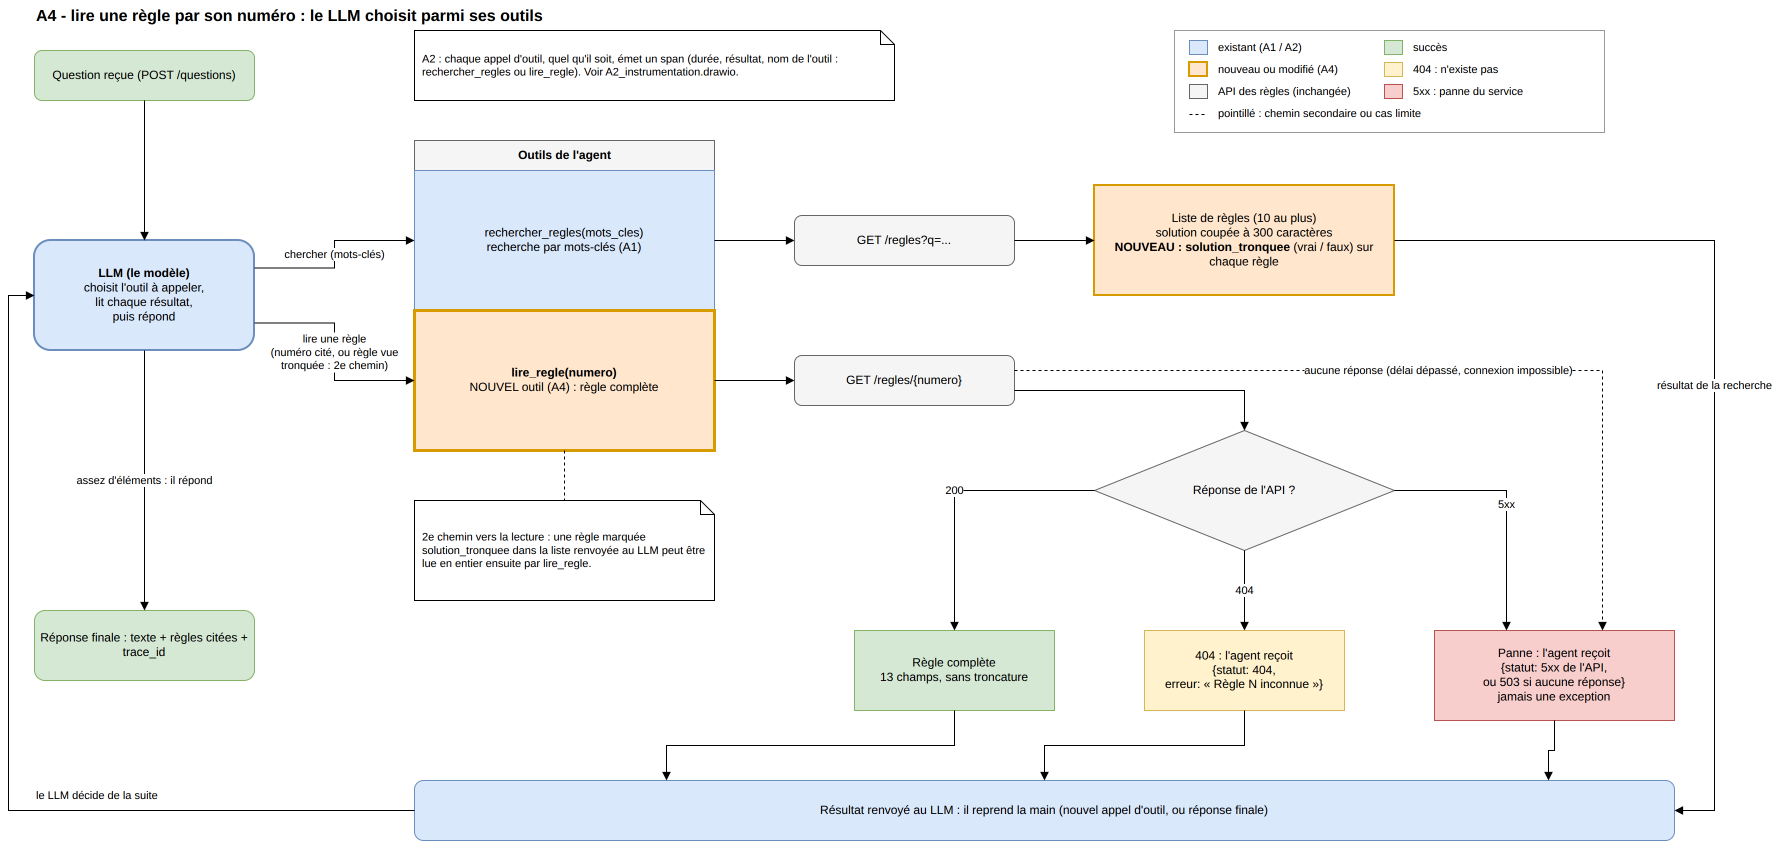
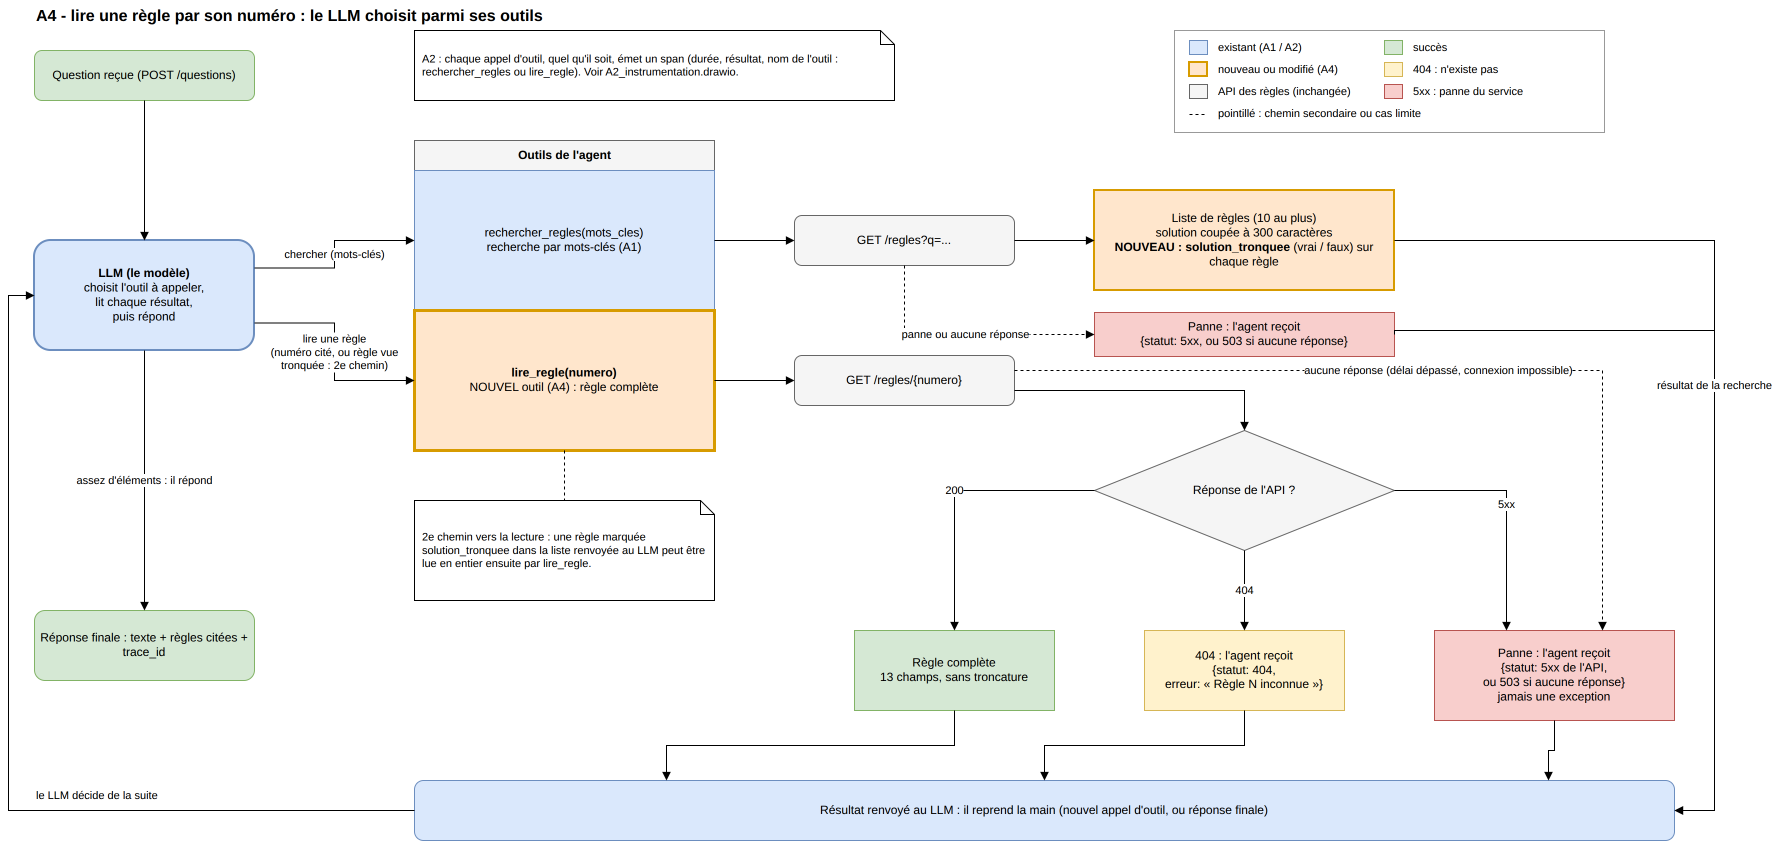
docs(a4): align search tool errors and add service_indisponible status
La recherche `rechercher_regles` adopte le même contrat de résilience que
`lire_regle` : plus d'exception vers l'agent, le statut d'erreur de l'API est
transmis (503 si aucune réponse).

Conséquence sur le contrat : une panne de l'API des règles ne provoque plus de
HTTP 503 sur POST /questions, et aurait été classée `aucune_regle_pertinente`
à tort. Décision de David : nouveau statut `service_indisponible` en HTTP 200.

- openapi.json : version 0.3.0, valeur additive dans StatutReponse, entrée A4
  dans x-historique
- fiche A4 : décision et scénarios (12 au total, dont deux pour la recherche
  et un au niveau de l'API)
- schéma : issue « panne » de la recherche ajoutée
- CHANGELOG à jour

Le code et son miroir schemas.py suivent, tests d'abord.

Changed region(s): [[0.4961, 0.3393, 0.8061, 0.4318], [0.6201, 0.2159, 0.7751, 0.2467]]

diff --git a/conception/3_autre_us/us2_question_libre/increments/A_agent_nu/A4_lecture_regle_par_numero.md b/conception/3_autre_us/us2_question_libre/increments/A_agent_nu/A4_lecture_regle_par_numero.md
@@ -29,6 +29,11 @@ deux outils.
 - **Le service ne répond pas** (délai dépassé, connexion impossible) : aucune
   réponse HTTP n'existe, l'outil renvoie de lui-même `{"statut": 503, ...}`
   (service indisponible).
+- **Même contrat pour `rechercher_regles`** (décision de David : « il faut
+  vraiment que notre produit soit résilient ») : plus d'exception, le statut
+  d'erreur de l'API est transmis à l'agent, 503 si aucune réponse. Cela
+  modifie l'outil d'A1 (le `raise_for_status()` disparaît), au même titre que
+  le marqueur `solution_tronquee`.
 - **Deux usages** : l'utilisateur cite un numéro, **ou** l'agent lui-même veut
   lire en entier une règle qu'une recherche lui a montrée tronquée (la
   recherche coupe la solution à 300 caractères). Le second usage est la vraie
@@ -39,6 +44,14 @@ deux outils.
   ressemble à une règle complète et l'agent n'a aucune raison de la lire en
   entier. C'est une petite modification de l'outil d'A1, imposée par A4.
   Le prompt système et la description des outils citent les deux outils.
+- **Une panne d'outil n'est pas « rien ne correspond »** : quand l'agent
+  a reçu un statut 5xx d'un outil et ne cite aucune règle, la réponse de
+  `POST /questions` porte le nouveau statut `service_indisponible`, en HTTP
+  200 (contrat `openapi.json`, version 0.3.0, ajout additif). Sans lui, la
+  panne serait classée `aucune_regle_pertinente`, ce qui est faux. Règle
+  retenue (à valider) : `service_indisponible` seulement si un outil a renvoyé
+  un 5xx **et** qu'aucune règle n'est citée ; si une nouvelle tentative a
+  réussi et que des règles sont citées, la réponse reste `repondu`.
 - Aucune modification de l'API des règles : la route existe et est en accès
   libre, sans jeton.
 
@@ -95,6 +108,26 @@ Fonctionnalité : Lecture d'une règle par son numéro
     Alors il renvoie à l'agent le statut 503
     Et l'agent n'affirme pas que la règle 116 n'existe pas
 
+  Scénario : La recherche remonte une panne comme un 5xx
+    Étant donné que l'API des règles répond par une erreur serveur 503
+    Quand l'agent lance une recherche par mots-clés
+    Alors l'outil de recherche renvoie à l'agent le statut 503 et le message
+      d'erreur
+    Et l'agent n'affirme pas qu'aucune règle ne correspond
+
+  Scénario : La recherche ne reçoit aucune réponse
+    Étant donné que l'API des règles ne répond pas dans le délai imparti
+    Quand l'agent lance une recherche par mots-clés
+    Alors l'outil de recherche renvoie à l'agent le statut 503
+    Et l'agent n'affirme pas qu'aucune règle ne correspond
+
+  Scénario : Une panne d'outil n'est pas présentée comme « rien ne correspond »
+    Étant donné que l'API des règles répond par une erreur serveur 503
+    Et qu'aucune règle n'a pu être citée
+    Quand l'utilisateur pose une question dans le sujet
+    Alors la réponse HTTP est un 200
+    Et son statut est `service_indisponible`, pas `aucune_regle_pertinente`
+
   Scénario : Une question sans numéro commence par une recherche par mots-clés
     Étant donné une question qui ne cite aucun numéro de règle
     Quand l'utilisateur demande « Comment traiter les images décoratives ? »
@@ -109,10 +142,11 @@ Fonctionnalité : Lecture d'une règle par son numéro
     Et elle contient la durée et le résultat (succès ou erreur)
 ```
 
-Les scénarios 3 à 7 sont déterministes (tests unitaires des outils, API
-simulée). Les scénarios 1, 2 et 8 dépendent du choix du modèle : ils se
-vérifient par un test d'intégration réel et alimentent la mesure de la carte.
-Le scénario 9 protège la trace d'A2 quand la boucle passe à deux outils.
+Les scénarios 3 à 10 sont déterministes (tests unitaires des outils et de la
+boucle, API simulée). Les scénarios 1, 2 et 11 dépendent du choix du modèle :
+ils se vérifient par un test d'intégration réel et alimentent la mesure de la
+carte. Le scénario 12 protège la trace d'A2 quand la boucle passe à deux
+outils.
 
 ## Schémas
 

diff --git a/CHANGELOG.md b/CHANGELOG.md
@@ -17,11 +17,22 @@ Format d'entrée, une ligne par réalisation :
   inconnue » remontée à l'agent comme résultat avec son code (`statut: 404`,
   même hors HTTP, comme vocabulaire commun), et les pannes comme un 5xx
   (statut de l'API transmis tel quel ; 503 quand le service ne répond pas),
-  plus aucune exception vers l'agent. Deux usages retenus : numéro cité par l'utilisateur, ou règle
+  plus aucune exception vers l'agent. **La recherche `rechercher_regles` est
+  alignée sur le même contrat** (décision de David : « il faut vraiment que
+  notre produit soit résilient ») : le `raise_for_status()` d'A1 disparaît,
+  le statut d'erreur de l'API est transmis à l'agent, 503 si aucune réponse.
+  Schéma mis à jour (case rouge de la recherche). **Conséquence sur le
+  contrat** : une panne de l'API des règles ne fait plus lever d'exception
+  dans l'agent, donc plus de HTTP 503 sur `POST /questions` ; elle aurait été
+  classée `aucune_regle_pertinente` à tort. Décision de David : nouveau statut
+  `service_indisponible` (HTTP 200), `openapi.json` passé en version 0.3.0
+  (ajout additif, entrée A4 dans `x-historique`). Le miroir
+  `app/agent_us2/schemas.py` sera mis à jour avec le code, tests d'abord. Deux usages retenus : numéro cité par l'utilisateur, ou règle
   vue tronquée dans une recherche que l'agent veut lire en entier. Pour que
   ce second usage soit possible, la recherche devra signaler les solutions
   qu'elle coupe (indicateur `solution_tronquee` par règle) : petite
-  modification de l'outil d'A1, décidée avec David. Neuf scénarios — voir
+  modification de l'outil d'A1, décidée avec David. Douze scénarios (dont deux pour la recherche alignée et un au niveau de
+  l'API) — voir
   `conception/3_autre_us/us2_question_libre/increments/A_agent_nu/A4_lecture_regle_par_numero.md`.
   Schéma `A4_lecture_regle_par_numero.drawio` (+ `.png`) produit à partir de
   la structure d'A2, puis refondu à la demande de David : le LLM est visible
